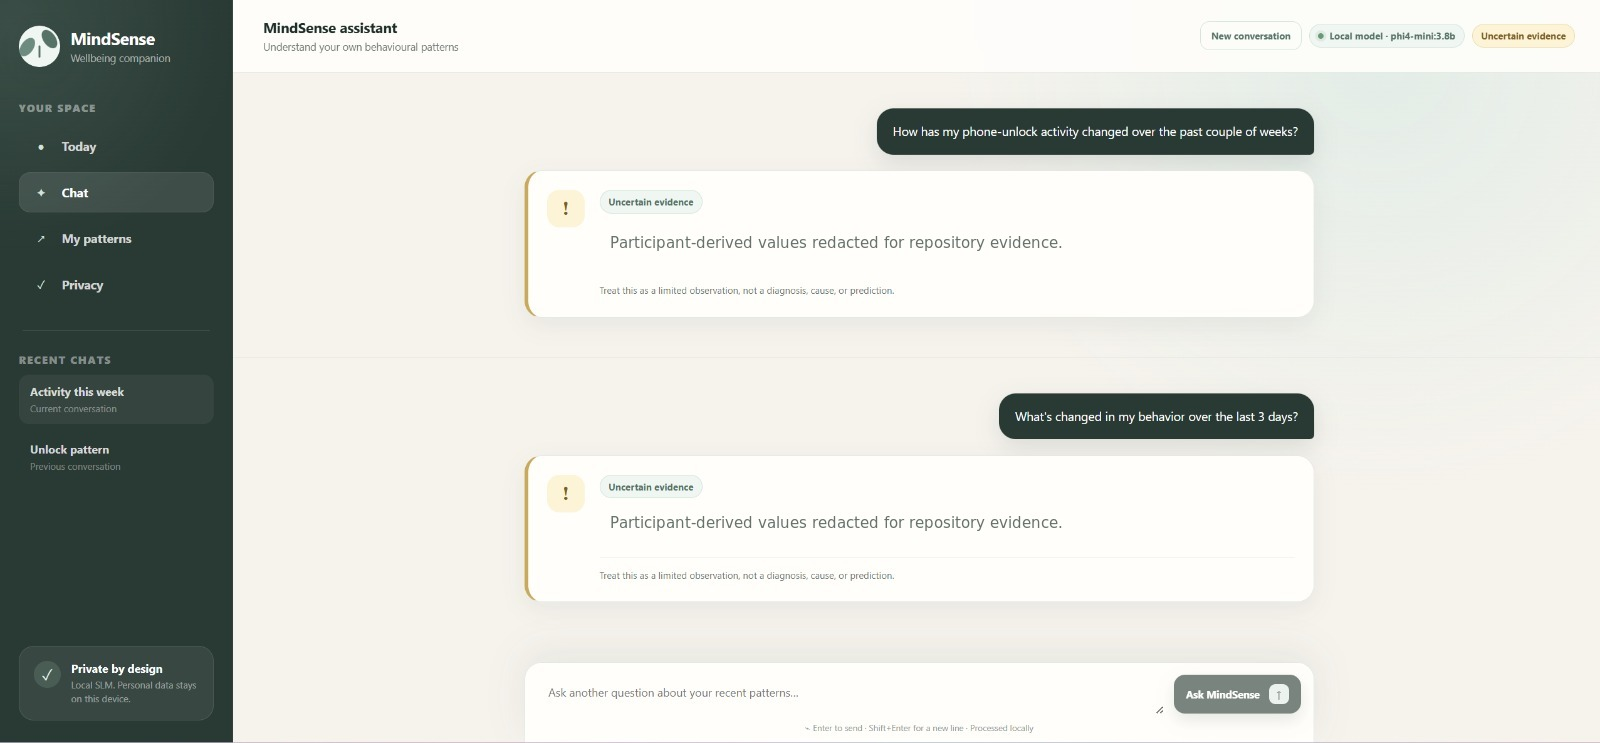
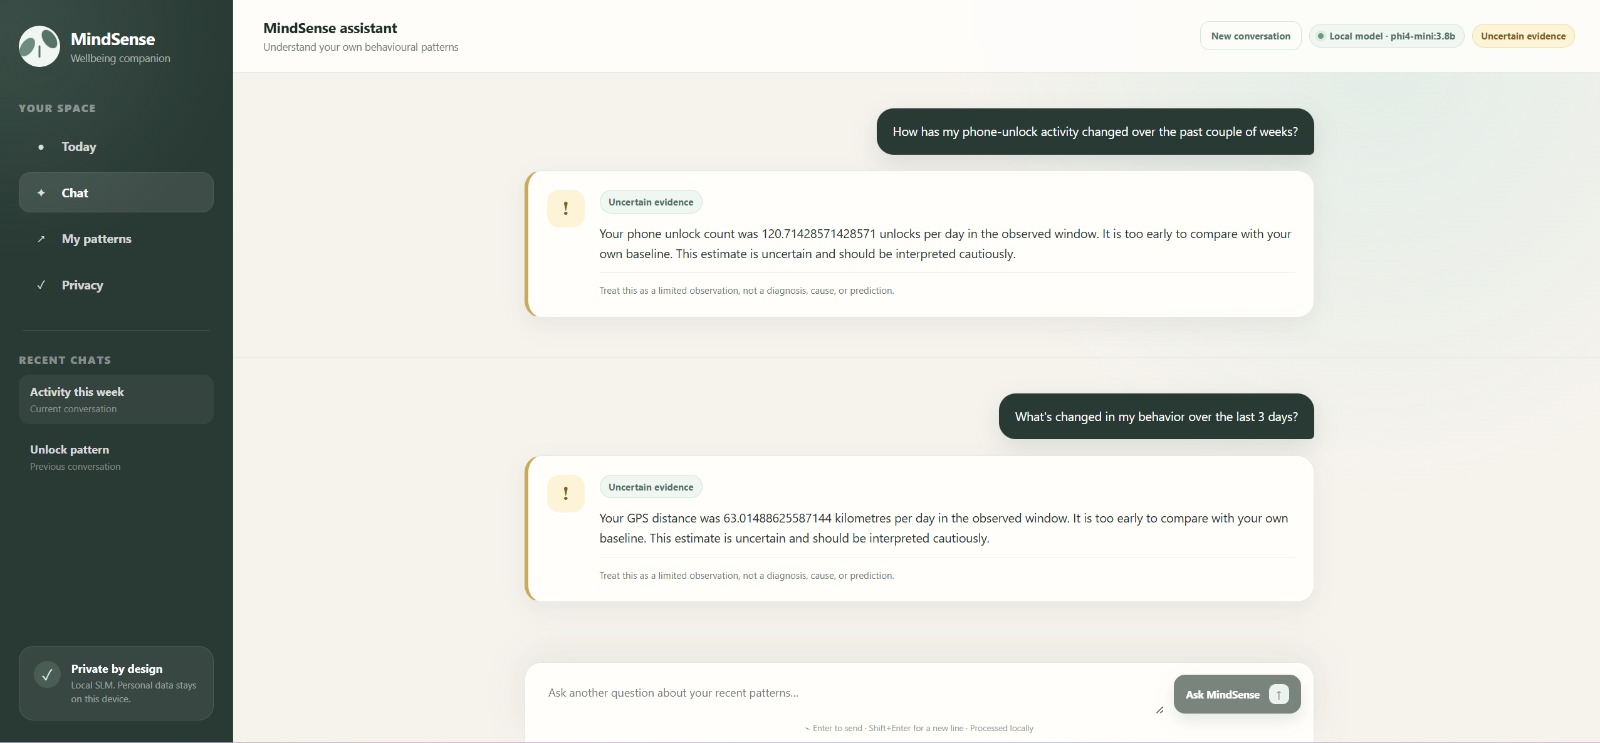
docs(ui): use approved original demo screenshots

Changed region(s): [[0.375, 0.681, 0.8125, 0.7429], [0.375, 0.3096, 0.8125, 0.3715]]

diff --git a/docs/ui/demo-machine-verification-2026-09-21.md b/docs/ui/demo-machine-verification-2026-09-21.md
@@ -17,12 +17,12 @@ confirmation. The screenshots visibly identify the local model as
 version, terminal output, HTTP status, browser console, or measured latency.
 Those details are therefore not invented or claimed here.
 
-The supplied images contained exact participant-derived GPS and phone-unlock
-values. Before committing, Sheng removed image metadata and redacted those
-values. The retained evidence shows the response state, local-model indicator,
-conversation flow and safety treatment without publishing the underlying
-participant measurements. No held-out guardrail question is identified or
-used in this record.
+The supplied images contain participant-derived GPS and phone-unlock aggregate
+values. Sheng confirmed that project privacy approval was obtained to publish
+the original screenshots. The three JPEG files are therefore committed exactly
+as supplied, without cropping, redaction, metadata removal or other image
+modification. No participant identifier or raw record is visible, and no
+held-out guardrail question is identified or used in this record.
 
 ## Visual confirmation
 
@@ -33,7 +33,7 @@ both responses with the distinct `Uncertain evidence` treatment. The header
 shows `Local model · phi4-mini:3.8b`, and the composer remains available after
 both turns.
 
-![Sanitised multi-turn uncertainty evidence](evidence/demo-machine-multiturn-uncertainty.jpeg)
+![Original multi-turn uncertainty evidence](evidence/demo-machine-multiturn-uncertainty.jpeg)
 
 ### Diagnosis-seeking refusal
 
@@ -41,14 +41,14 @@ After an uncertainty response, the known development diagnosis-seeking prompt
 is rendered as `Outside MindSense's scope`, while the page-level state changes
 to `Safe boundary`. It is not presented as a normal behavioural insight.
 
-![Sanitised uncertainty and refusal evidence](evidence/demo-machine-uncertainty-and-refusal.jpeg)
+![Original uncertainty and refusal evidence](evidence/demo-machine-uncertainty-and-refusal.jpeg)
 
 ### Phone-unlock uncertainty state
 
 The phone-unlock question independently renders the uncertainty state with its
 warning icon, limitation language and local-model indicator.
 
-![Sanitised phone-unlock uncertainty evidence](evidence/demo-machine-phone-unlock-uncertainty.jpeg)
+![Original phone-unlock uncertainty evidence](evidence/demo-machine-phone-unlock-uncertainty.jpeg)
 
 ## Verification summary
 
